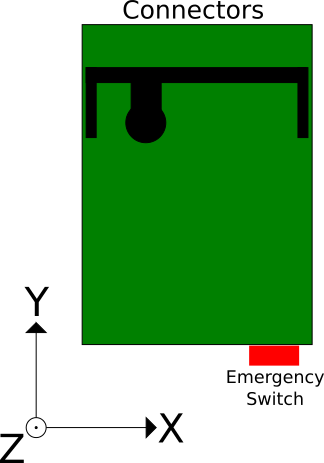
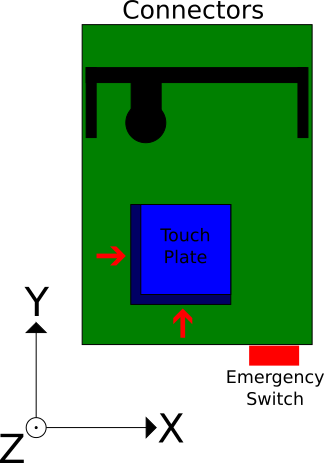
Updated drawings; Added laser section

Changed region(s): [[0.2778, 0.4233, 0.7407, 0.7257]]

diff --git a/README.md b/README.md
@@ -1,20 +1,30 @@
 # Stepcraft-GRBL-Estlcam <!-- omit in toc -->
 
-Configuration of Stepcraft CNC Mill (D-Series 1) for GRBL and Estlcam
+Configuration of Stepcraft CNC Milling Machine for GRBL, Estlcam and LaserGRBL
 
 - [Introduction](#introduction)
-- [System configuration](#system-configuration)
-- [Geometry](#geometry)
-- [Pin connections](#pin-connections)
+- [Basic configuration](#basic-configuration)
+  - [System configuration](#system-configuration)
+  - [Additional tools/devices](#additional-toolsdevices)
+  - [Geometry](#geometry)
+  - [Pin connections](#pin-connections)
   - [Limit switch wiring](#limit-switch-wiring)
   - [Probe](#probe)
 - [Stepper settings](#stepper-settings)
-- [Sample configuration for Estlcam 11](#sample-configuration-for-estlcam-11)
+- [Software related configuration](#software-related-configuration)
+  - [Estlcam](#estlcam)
+    - [Probing](#probing)
+    - [Sample configuration for Estlcam 11](#sample-configuration-for-estlcam-11)
+  - [LaserGRBL](#lasergrbl)
+    - [Material settings](#material-settings)
+- [Todo](#todo)
 - [References](#references)
 
 # Introduction
 
 Some years ago i bought a [Stepcraft](https://www.stepcraft-systems.com) D 600 with LPT module that i was using initially together with Linux CNC. Meanwhile i switched to GRBL (because of much less space needed for controlling the machine). I rewired the LPT port, ripped out the electronic components from the milling machine and put everything together into a small electronics cabinet. 
+
+![Cabinet](images/cabinet.jpg)
 
 I tried several opensource CNC software solutions but i wasn't that much satisfied because they offered way too much features with a lot of configuration efford needed. [Estlcam](https://www.estlcam.de/) came across and so i started using this. It offers a lot of nicely usable features for a very low price. Also touchplates and other hardware (like XBox controllers) is supported. And best of all, it's made by someone who's using it by himself and knows a lot of tricks that are valuable for milling. Having a look at the site is always worth doing to get some good ideas how to improve your hardware and ways of working.
 
@@ -22,23 +32,36 @@ This repository should give some hints (and helps me to memorize the settings) h
 
 **Warning: I'm not responsible for any damages or harms that arise from using this tutorial!**
 
-# System configuration
+# Basic configuration
 
-| Component | Version |
-| --------- | ------- |
-| Stepcraft CNC Milling machine | D 600 (Series 1) |
-| Arduino Nano | n/a |
-| Estlcam | 11 |
-| Tool length probe | Stepcraft Tool Probe (35mm) |
-| Touch plate | self made |
+## System configuration
 
-# Geometry
+| Component                     | Type/Version  |
+| ----------------------------- | ------------- |
+| Stepcraft CNC Milling machine | D 600         |
+| Arduino Nano                  | n/a           |
+| Spindle                       | Kress 1050    |
+| Laser                         | Neje 30W ([link]([link](https://wiki.nejetool.com/doku.php?id=laser_module_406030w)))|
+
+## Additional tools/devices
+
+| Component                          | Type/Version                                                         |
+| ---------------------------------- | -------------------------------------------------------------------- |
+| Tool length probe                  | Stepcraft Tool Probe (35mm)                                          |
+| Touch plate                        | self made                                                            |
+| Vacuum cleaner adapter for spindle | self made ([link](https://www.thingiverse.com/thing:4366285))        |
+| 43mm mount for Neje laser clamp    | self made ([link](https://www.thingiverse.com/thing:4726920))        |
+
+
+## Geometry
 
 Below you see some schematic drawing of the machine coordinate system.
 
 ![Machine coordinate system](images/coordinate_system.png)
 
-# Pin connections
+The red arrows show the probe directions for the usage of the touch plate.
+
+## Pin connections
 
 The following table describes the pin connections from the LPT port to an Arduino.
 
@@ -50,20 +73,22 @@ The following table describes the pin connections from the LPT port to an Arduin
 |  Dir X            |      D5      |   2       |                |                     |
 |  Dir Y            |      D6      |   4       |                |                     |
 |  Dir Z            |      D7      |   6       |                |                     |
-| Limit X/Y/Z       |      D9      |   12      |    Input 1     |   yes               |
-|  Emergency Switch |      A0      |   11      |    Input 5     |   yes               |
-|  Probe            |      A5      |   10      |    Input 8     |    no (see below)   |
-|  GND              |      GND     |   18 - 25 |                |                     |
+|  Limit X/Y/Z      |      D9      |   12      |    Input 1     |   yes (normally closed)  |
+|  PWM              |      D11     |   n/a     |    PWM         |   n/a                    |
+|  Emergency Switch |      A0      |   11      |    Input 5     |   yes (normally closed)  |
+|  Probe            |      A5      |   10      |    Input 8     |    no (see below)        |
+|  GND              |      GND     |   18 - 25 |                |                          |
 
 ## Limit switch wiring
 
-The Stepcraft CNC machine has only one output for the end switch signal. Estlcam is configuring GRBL to do a separate homing for each axis. So this shouldn't be a problem.  
+The Stepcraft CNC machine has only one output for the end switch signal. Estlcam is configuring GRBL to do a separate homing for each axis. So this shouldn't be a problem if you're using Estlcam to flash GRBL.
+
+The limit switches are normally closed, so be aware that you have inverted logic there.
 
 ## Probe
 
 I'm currently using the Stepcraft probe sensor together with a touch plate. The default probe sensor interrupts the circuit and signalizes that it was triggered. I rewired it so it is closing the circuit to have the same behavior as the touch plate. That's the reason why i don't invert the probe pin in Estlcam.
 
-When using the height probe sensor or touch plate, don't forget to configure the settings in Estlcam accordingly!
 
 # Stepper settings
 
@@ -75,12 +100,47 @@ When using the height probe sensor or touch plate, don't forget to configure the
 
  See [Stepcraft Machine Parameters](https://www.stepcraft-systems.com/images/SC-Service/Anleitungen-EN/SC_Machine_parameters_D-Series_EN.pdf) for details.
 
-# Sample configuration for Estlcam 11
+ The manual says it's possible to go up to 3000 mm/min, but' currently i'm using a reduced feed rate.
+
+# Software related configuration
+
+## Estlcam
+
+### Probing
+
+When using the height probe sensor or touch plate, don't forget to configure the settings in Estlcam accordingly!
+
+For details on using touch plates with Estlcam, see [https://www.youtube.com/watch?v=bhZdbgM6S70](https://www.youtube.com/watch?v=bhZdbgM6S70).
+
+### Sample configuration for Estlcam 11
 
 See the sample configuration [file](estlcam_sample_config.txt) within this repository. 
 Check that the values are according to your settings before using it.
 
+## LaserGRBL
+
+### Material settings
+
+Below you can find some settings i'm using for engraving/cutting.
+This is currently still under construction and hopefully will be updated in future.
+
+| Material            | Cut/Engrave | Thickness | Laser     | Feedrate   | Laserpower    | Repetitions | Remarks | 
+| ------------------- | ----------- | --------- |---------- | ---------- | ------------- | ----------- | --------|
+| Plywood (Birch)     | Cut         | 4 mm      |Neje 30 W  | 800 mm/min |  70% dynamic  | 12 times    | works for "easy" cuts without small details |
+
+I'm using a PWM controlled laser. So the power could be varied during cutting. If dynamic adaption of laser power is set (M4/M5 command), the power is adapted to the current speed. If it's not set, a constant value is used.
+
+
+# Todo
+
+- Description of homing procedure with plain GRBL version
+- Description of GRBL settings for Stepcraft
+- Provide touch plate drawing
+- Extend material description
+
 # References
 
-- [Stepcraft manual D-Series 1](https://www.stepcraft-systems.com/images/SC-Service/Anleitungen-EN/Betriebsanleitung-v5-eng.pdf)
+- [Stepcraft manual D-Series](https://www.stepcraft-systems.com/images/SC-Service/Anleitungen-EN/Betriebsanleitung-v5-eng.pdf)
 - [Stepcraft Machine Parameters](https://www.stepcraft-systems.com/images/SC-Service/Anleitungen-EN/SC_Machine_parameters_D-Series_EN.pdf)
+- [Estlcam](https://www.estlcam.de)
+- [LaserGRBL](https://lasergrbl.com/)
